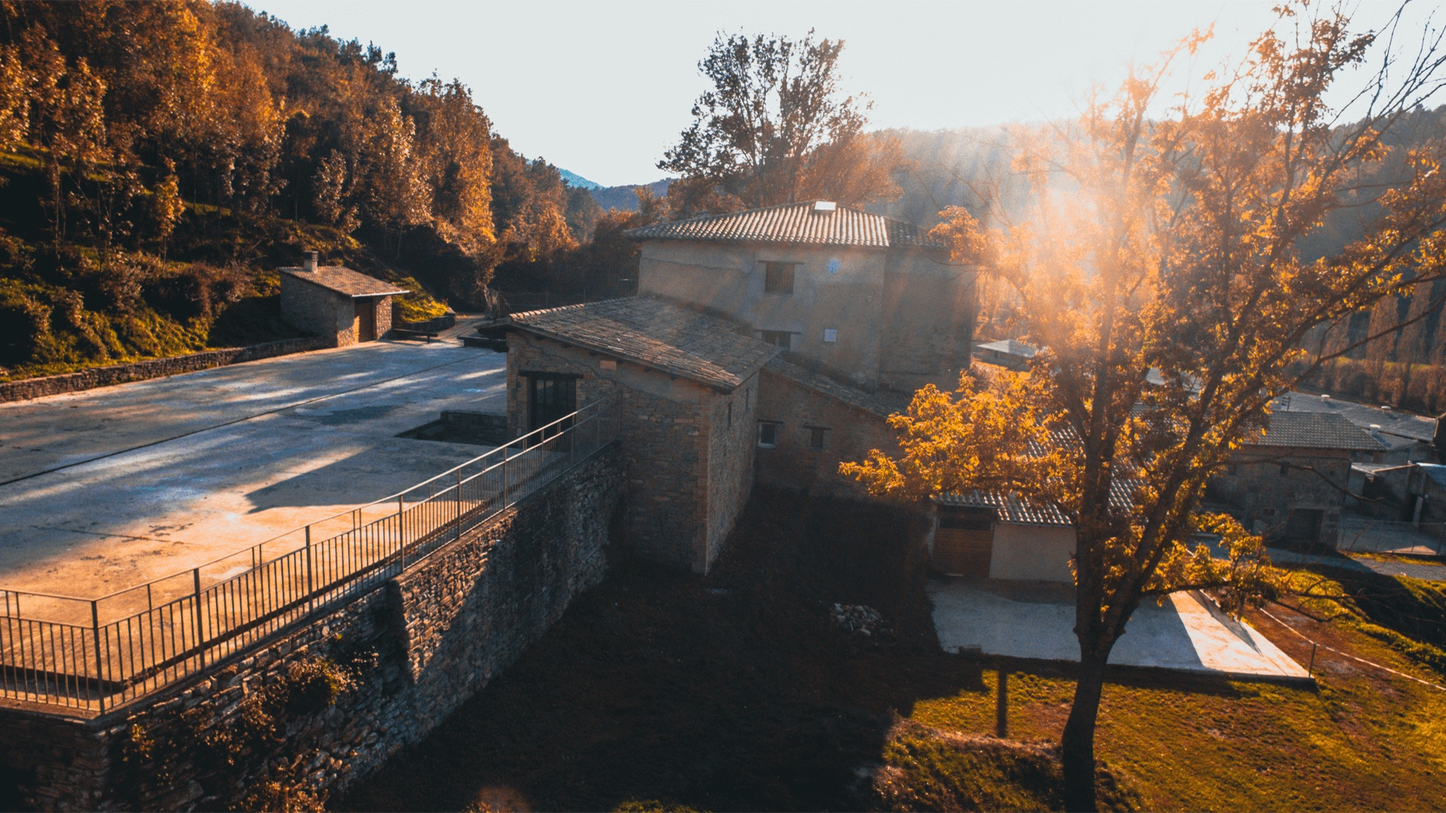
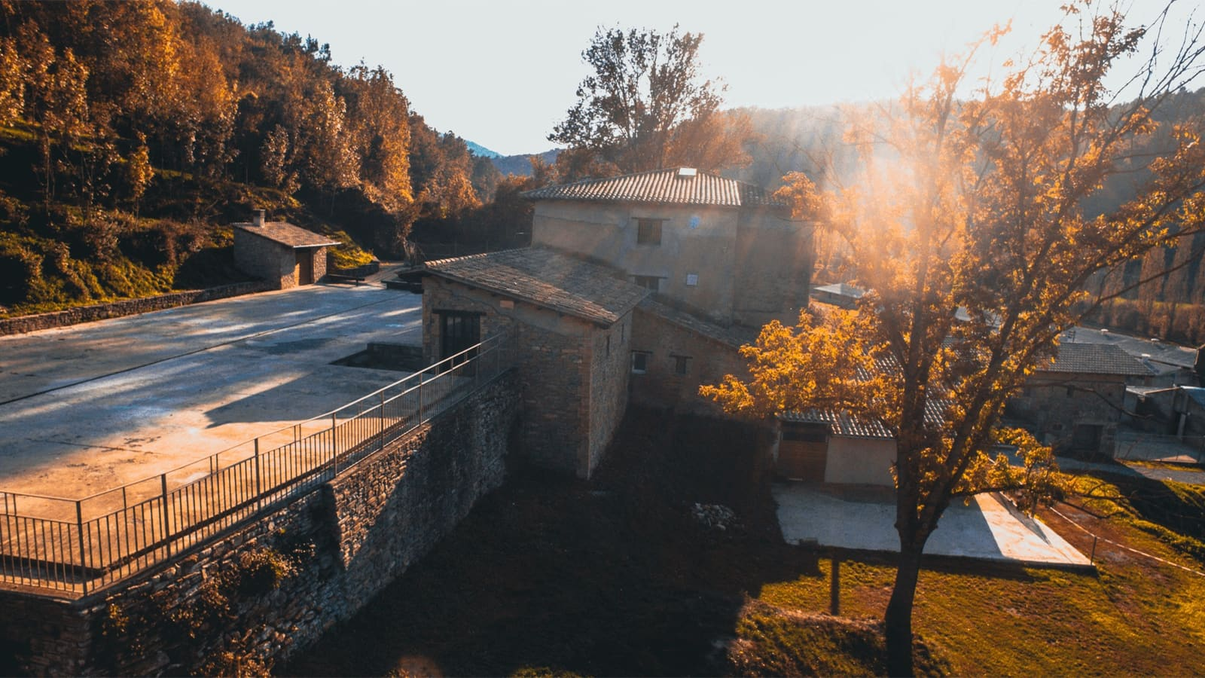
Optimitzar: vot optimista, una sola crida per vot, regio fra1, imatges mes lleugeres

diff --git a/index.html b/index.html
@@ -512,25 +512,46 @@ canvas.conf { position: fixed; inset: 0; width: 100%; height: 100%; pointer-even
     return fetch("/api/vote", { method: "POST", headers: { "Content-Type": "application/json" }, body: JSON.stringify(Object.assign({ fn: fn }, body || {})) })
       .then(function (r) { if (!r.ok) return r.text().then(function (t) { throw new Error(t || r.status); }); return r.text().then(function (t) { return t ? JSON.parse(t) : null; }); });
   }
-  function loadResults() {
-    return api("resultados").then(function (rows) {
-      var by = {}, t = 0;
-      (rows || []).forEach(function (r) { by[r.casa] = Number(r.n); t += Number(r.n); });
-      state.by = by; state.total = t; render();
-    });
+  state.seq = 0; state.inflight = 0; state.chain = Promise.resolve();
+  function applyState(res, mine) {
+    var by = {}, t = 0;
+    (res || []).forEach(function (r) { by[r.casa] = Number(r.n); t += Number(r.n); });
+    state.by = by; state.total = t;
+    if (mine !== undefined) state.mine = mine ? { casa: mine } : null;
+    render();
   }
-  function loadMine() {
-    return api("mi_voto", { p_dev: DEV }).then(function (c) { state.mine = c ? { casa: c } : null; render(); });
+  function loadState() {
+    return api("estado", { p_dev: DEV }).then(function (r) { if (!state.inflight) applyState(r.res, r.mine); });
+  }
+  function bump(casa, d) {
+    if (!casa) return;
+    state.by[casa] = Math.max(0, (state.by[casa] || 0) + d);
+    state.total = Math.max(0, state.total + d);
   }
 
+  // Interfície optimista: el vot es veu al moment i el servidor es posa al dia en segon pla.
   function castVote(id, ev) {
-    if (!state.canVote || state.busy) return;
-    var on = (state.mine || {}).casa !== id;
-    state.busy = true;
-    var p = on ? api("votar", { p_dev: DEV, p_casa: id }) : api("quitar_voto", { p_dev: DEV });
-    p.then(function () { state.mine = on ? { casa: id } : null; showNotice("", false); render(); if (on && ev) burst(ev.clientX, ev.clientY); return loadResults(); })
-     .catch(function (e) { showNotice(/massa/.test(String(e && e.message)) ? "Hi ha massa vots des d'aquesta connexió. Prova-ho amb dades mòbils." : "No s'ha pogut desar el vot. Torna-ho a provar d'aquí a un moment.", true); })
-     .then(function () { state.busy = false; });
+    if (!state.canVote) return;
+    var prev = state.mine;
+    var on = !prev || prev.casa !== id;
+    if (prev) bump(prev.casa, -1);
+    if (on) bump(id, 1);
+    state.mine = on ? { casa: id } : null;
+    showNotice("", false); render();
+    if (on && ev) burst(ev.clientX, ev.clientY);
+    var seq = ++state.seq;
+    state.inflight++;
+    state.chain = state.chain
+      .then(function () { return on ? api("votar", { p_dev: DEV, p_casa: id }) : api("quitar_voto", { p_dev: DEV }); })
+      .then(function (r) { if (seq === state.seq && r && r.res) applyState(r.res); return false; })
+      .catch(function (e) {
+        showNotice(/massa/.test(String(e && e.message)) ? "Hi ha massa vots des d'aquesta connexió. Prova-ho amb dades mòbils." : "No s'ha pogut desar el vot. Torna-ho a provar d'aquí a un moment.", true);
+        return true;
+      })
+      .then(function (failed) {
+        state.inflight = Math.max(0, state.inflight - 1);
+        if (failed) return loadState().catch(function () {});
+      });
   }
   HOUSES.forEach(buildP); HOUSES.forEach(buildD);
   if (!configured) {
@@ -538,9 +559,8 @@ canvas.conf { position: fixed; inset: 0; width: 100%; height: 100%; pointer-even
     render();
   } else {
     state.canVote = true; render();
-    loadResults().catch(function () { showNotice("No s'han pogut carregar els vots.", true); });
-    loadMine().catch(function () {});
-    setInterval(function () { if (!document.hidden && !state.busy) loadResults().catch(function () {}); }, 15000);
+    loadState().catch(function () { showNotice("No s'han pogut carregar els vots.", true); });
+    setInterval(function () { if (!document.hidden && !state.inflight) loadState().catch(function () {}); }, 15000);
   }
 })();
 </script>

diff --git a/api/vote.js b/api/vote.js
@@ -8,6 +8,7 @@ const CASAS = ["calgort", "aliberch", "molinou"];
 const MAX_PER_IP = 40;
 const sha = (s) => crypto.createHash("sha256").update(s + ":equador-uab").digest("hex").slice(0, 32);
 
+// Una sola crida a Blob per llegir tots els vots.
 async function totsElsVots() {
   let cursor, out = [];
   do {
@@ -16,6 +17,13 @@ async function totsElsVots() {
     cursor = r.hasMore ? r.cursor : undefined;
   } while (cursor);
   return out;
+}
+
+// Vots per casa a partir dels noms dels arxius.
+function filas(pathnames) {
+  const n = {};
+  pathnames.forEach((p) => { const c = p.split(".")[1]; if (CASAS.includes(c)) n[c] = (n[c] || 0) + 1; });
+  return Object.keys(n).map((c) => ({ casa: c, n: n[c] }));
 }
 
 function ipDe(req) {
@@ -30,26 +38,21 @@ module.exports = async (req, res) => {
     const body = typeof req.body === "string" ? JSON.parse(req.body || "{}") : (req.body || {});
     const fn = body.fn;
 
-    if (fn === "resultados") {
-      const n = {};
-      (await totsElsVots()).forEach((b) => { const c = b.pathname.split(".")[1]; if (CASAS.includes(c)) n[c] = (n[c] || 0) + 1; });
-      res.status(200).json(Object.keys(n).map((c) => ({ casa: c, n: n[c] })));
-      return;
-    }
-
     const dev = String(body.p_dev || "");
     if (dev.length < 16 || dev.length > 80) { res.status(400).json({ error: "dispositiu no valid" }); return; }
     const d = sha(dev);
     const blobs = await totsElsVots();
     const mine = blobs.filter((b) => b.pathname.startsWith("v/" + d + "."));
+    const others = blobs.filter((b) => !b.pathname.startsWith("v/" + d + "."));
 
-    if (fn === "mi_voto") {
-      res.status(200).json(mine.length ? mine[0].pathname.split(".")[1] : null);
+    // Resultats + el vot d'aquest dispositiu, en una sola petició.
+    if (fn === "estado") {
+      res.status(200).json({ res: filas(blobs.map((b) => b.pathname)), mine: mine.length ? mine[0].pathname.split(".")[1] : null });
       return;
     }
     if (fn === "quitar_voto") {
       if (mine.length) await del(mine.map((b) => b.url));
-      res.status(200).json(null);
+      res.status(200).json({ res: filas(others.map((b) => b.pathname)) });
       return;
     }
     if (fn === "votar") {
@@ -61,10 +64,13 @@ module.exports = async (req, res) => {
         return;
       }
       const pathname = "v/" + d + "." + casa + "." + i;
-      await put(pathname, "1", { access: "private", addRandomSuffix: false, allowOverwrite: true, contentType: "text/plain" });
       const old = mine.filter((b) => b.pathname !== pathname);
-      if (old.length) await del(old.map((b) => b.url));
-      res.status(200).json(null);
+      // Escriure i esborrar l'antic a la vegada.
+      await Promise.all([
+        put(pathname, "1", { access: "private", addRandomSuffix: false, allowOverwrite: true, contentType: "text/plain" }),
+        old.length ? del(old.map((b) => b.url)) : Promise.resolve()
+      ]);
+      res.status(200).json({ res: filas(others.map((b) => b.pathname).concat(pathname)) });
       return;
     }
     res.status(400).json({ error: "funcio desconeguda" });

diff --git a/LLEGEIX-ME.md b/LLEGEIX-ME.md
@@ -21,7 +21,9 @@ Limitacions: es pot votar més d'un cop esborrant les dades del navegador, amb u
 
 ```
 vercel deploy --prod              # desplegar els canvis
+vercel env pull .env.local        # un cop, per tenir el token del Blob en local
 vercel blob list                  # veure els vots (un arxiu per vot)
-vercel blob empty-store           # esborrar tots els vots (a l'store connectat)
+vercel blob empty-store           # esborrar tots els vots
 ```
+No pugis mai `.env.local` a GitHub (ja és al `.gitignore`).
 Per canviar preus, textos o fotos, edita `index.html` (les dades de les cases són a dalt del bloc `<script>`) i torna a desplegar.
